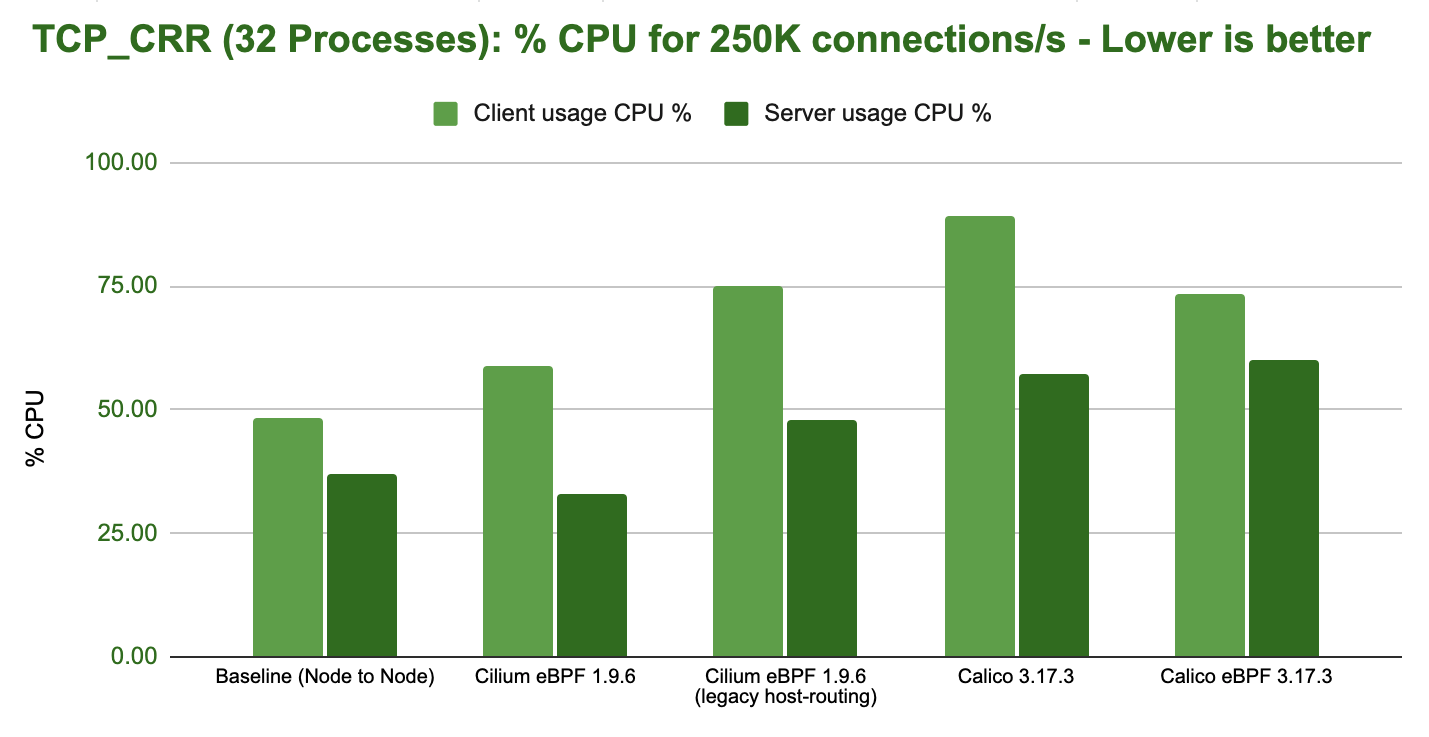
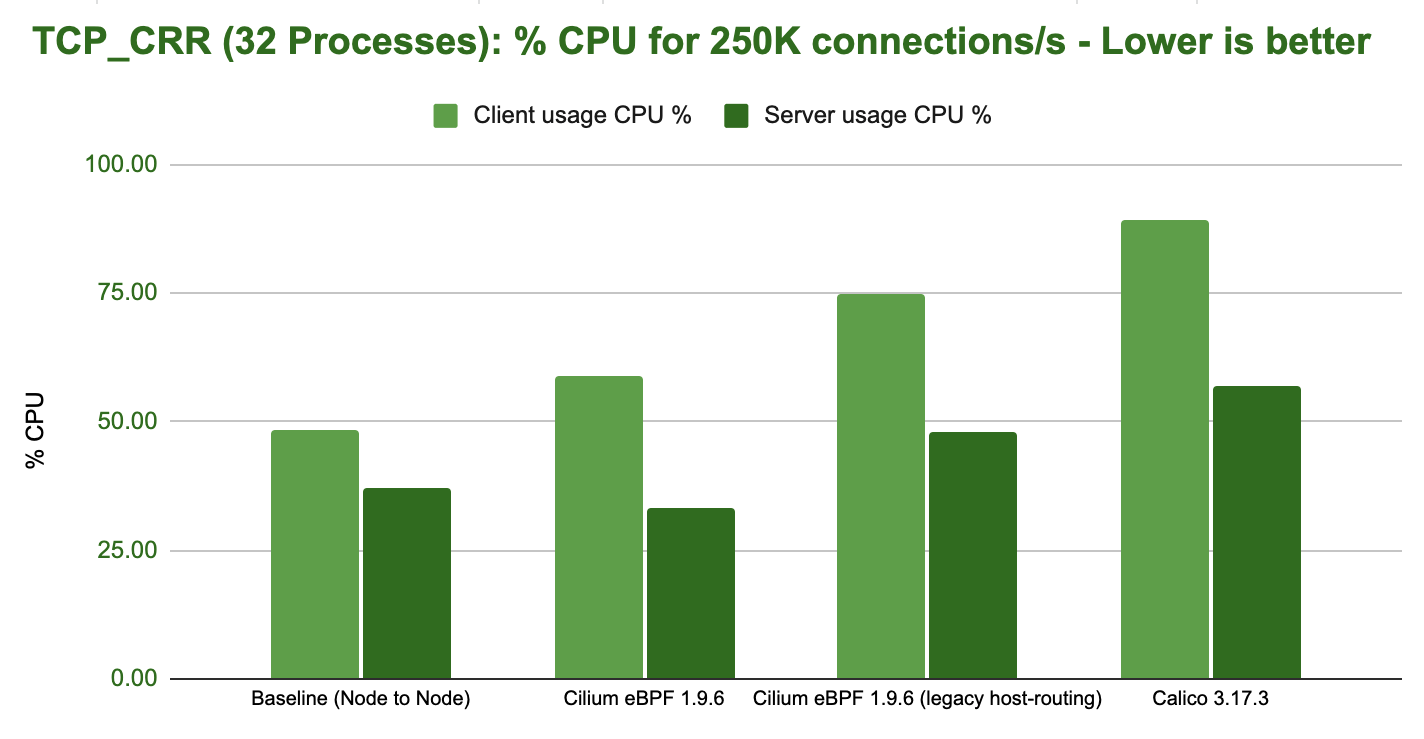
doc: Reword some results

diff --git a/Documentation/operations/performance/benchmark.rst b/Documentation/operations/performance/benchmark.rst
@@ -208,9 +208,10 @@ are expected.
 
 .. note::
 
-   The results for the Calico eBPF datapath have been very unstable in this
-   test. We are not sure why. The network packet flow was not steady. We invite
-   the Calico team to work with us to investigate this and then re-test.
+   We have not been able to measure stable results for the Calico eBPF
+   datapath.  We are not sure why. The network packet flow was never steady. We
+   have thus not included the result. We invite the Calico team to work with us
+   to investigate this and then re-test.
 
 The following graph shows the total CPU consumption across the entire system
 while running the benchmark:
